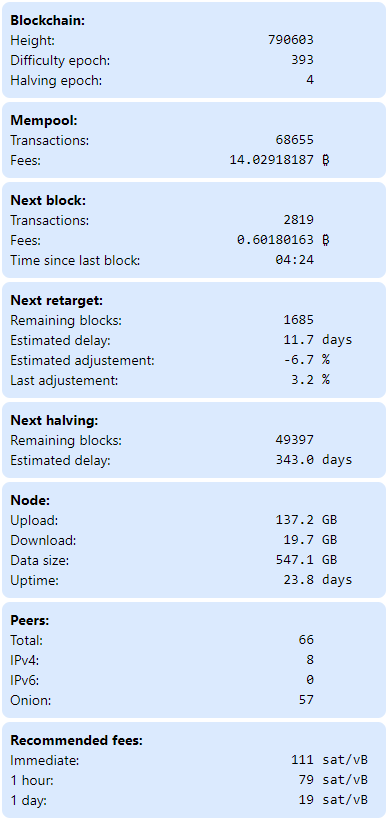
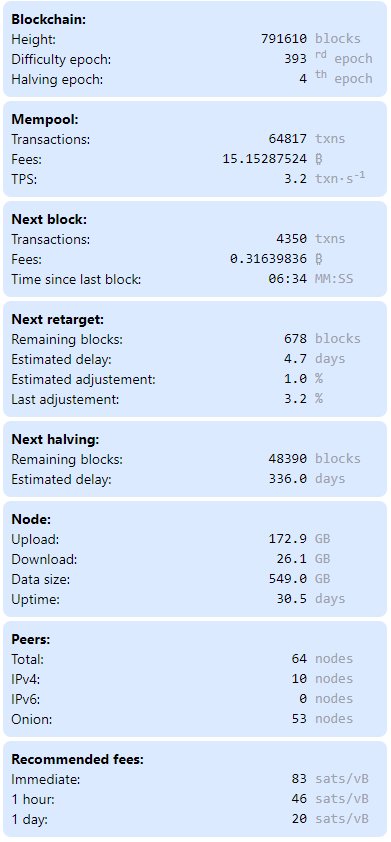
Added TPS + more units

Changed region(s): [[0.0, 0.0, 1.0, 1.0], [0.7366, 0.9124, 0.9514, 1.0]]

diff --git a/app/page.js b/app/page.js
@@ -9,24 +9,23 @@ function digitPrecision(val) {
   if (res.charAt(res.length - 2) != '.')
     res = res + ".0"
   return res
-
 }
 
 // Generates GB from byte size with 1 digit precision
 function formatSize(size) {
-  return digitPrecision(size / 1E9) + " GB"
+  return [digitPrecision(size / 1E9),  "GB"]
 }
 
 // Format days (TODO: Use years, months, days, hours and keep only the 2 higher units)
 function formatDays(days) {
   let res = digitPrecision(days)
-  return res + " days"
+  return [res, "days"]
 }
 
 // Format percentage with 1 digit precision
 function formatPercent(percent) {
   let res = digitPrecision(percent)
-  return res + " %"
+  return [res, "%"]
 }
 
 // Format seconds in HH:MM:SS format with HH part omitted if less than 3600 seconds
@@ -39,7 +38,7 @@ function formatSeconds(totalSeconds) {
     .filter((v, i) => v > 0 || i > 0)
     .map(v => v.toString().padStart(2, '0'))
     .join(':')
-  return res
+  return [res, hours > 0 ? "HH:MM:SS" : "MM:SS"]
 }
 
 // Format bitcoin amount to exactly 8 digits precision
@@ -51,11 +50,34 @@ function formatBitcoinAmount(amount) {
     dotPosition = res.length - 1
   }
   res = res.padEnd(dotPosition + 8 + 1, '0')
-  return res + " ₿"
+  return [res, "₿"]
 }
 
 function formatFee(fee) {
-  return fee.toString() + " sat/vB"
+  return [fee, "sats/vB"]
+}
+
+function formatRate(rate) {
+  return rate === undefined ? undefined : [digitPrecision(rate), <div key="1">txn·s<sup>-1</sup></div>]
+}
+
+function formatBlocks(fee) {
+  return [fee, "blocks"]
+}
+
+// TXN is abbreviation for transactions (https://en.wikipedia.org/wiki/TXN#:~:text=TXN%2C%20abbreviation%20for%20transaction%20(disambiguation))
+function formatTransactions(fee) {
+  return [fee, "txns"]
+}
+
+function formatPeers(fee) {
+  return [fee, "nodes"]
+}
+
+function formatEpoch(epoch) {
+  const digit = epoch % 10;
+  const ord = digit == 1 ? 'st' : digit == 2 ? 'nd' : digit == 3 ? 'rd' : 'th'
+  return [epoch, <div key="1"><sup>{ord}</sup> epoch</div>]
 }
 
 export default async function Home() {
@@ -63,22 +85,29 @@ export default async function Home() {
   return (
     <main className="flex flex-col gap-1 m-1 w-96 text-sm">
       <Card title={"Blockchain"} items={[
-        {Height: summary.headers}, {"Difficulty epoch": summary.diff_epoch}, {"Halving epoch": summary.halving_epoch}
+        {"Height": formatBlocks(summary.headers)},
+        {"Difficulty epoch": formatEpoch(summary.diff_epoch)},
+        {"Halving epoch": formatEpoch(summary.halving_epoch)}
       ]}/>
       <Card title={"Mempool"} items={[
-        {"Transactions": summary.mempool.ntx}, {"Fees": formatBitcoinAmount(summary.mempool.fees)}
+        {"Transactions": formatTransactions(summary.mempool.ntx)},
+        {"Fees": formatBitcoinAmount(summary.mempool.fees)},
+        {"TPS": formatRate(summary.mempool.ntx_per_second)}
       ]}/>
       <Card title={"Next block"} items={[
-        {"Transactions": summary.template.ntx}, {"Fees": formatBitcoinAmount(summary.template.fees)},
+        {"Transactions": formatTransactions(summary.template.ntx)},
+        {"Fees": formatBitcoinAmount(summary.template.fees)},
         {"Time since last block": formatSeconds(summary.time_since_last_bloc)}
       ]}/>
       <Card title={"Next retarget"} items={[
-        {"Remaining blocks": summary.next_retarget.blocks}, {"Estimated delay": formatDays(summary.next_retarget.days)},
+        {"Remaining blocks": formatBlocks(summary.next_retarget.blocks)},
+        {"Estimated delay": formatDays(summary.next_retarget.days)},
         {"Estimated adjustement": formatPercent(summary.next_retarget.estimated_diff_adj_percent)},
         {"Last adjustement": formatPercent(summary.prev_diff_adj_percent)}
       ]}/>
       <Card title={"Next halving"} items={[
-        {"Remaining blocks": summary.next_halving.blocks}, {"Estimated delay": formatDays(summary.next_halving.days)}
+        {"Remaining blocks": formatBlocks(summary.next_halving.blocks)},
+        {"Estimated delay": formatDays(summary.next_halving.days)}
       ]}/>
       <Card title={"Node"} items={[
         {"Upload": formatSize(summary.totalbytessent)}, {"Download": formatSize(summary.totalbytesrecv)},
@@ -86,10 +115,15 @@ export default async function Home() {
       ]}/>
       {/* Not publicly routable nodes are counted in the total but not are displayed apart, electrum server is one such node */}
       <Card title={"Peers"} items={[
-        {"Total": summary.peers.total}, {"IPv4": summary.peers.ipv4}, {"IPv6": summary.peers.ipv6}, {"Onion": summary.peers.onion}
+        {"Total": formatPeers(summary.peers.total)},
+        {"IPv4": formatPeers(summary.peers.ipv4)},
+        {"IPv6": formatPeers(summary.peers.ipv6)},
+        {"Onion": formatPeers(summary.peers.onion)}
       ]}/>
       <Card title={"Recommended fees"} items={[
-        {"Immediate": formatFee(summary.feerates["1"])}, {"1 hour": formatFee(summary.feerates["6"])}, {"1 day": formatFee(summary.feerates["144"])}
+        {"Immediate": formatFee(summary.feerates["1"])},
+        {"1 hour": formatFee(summary.feerates["6"])},
+        {"1 day": formatFee(summary.feerates["144"])}
       ]}/>
     </main>
   )

diff --git a/app/card.js b/app/card.js
@@ -1,3 +1,5 @@
+const emptyCell = "\u00A0"
+
 export default async function Card({title, items}) {
   return (
     <div className="p-2 bg-blue-100 rounded-lg">
@@ -8,28 +10,45 @@ export default async function Card({title, items}) {
         <div>
           {items.map((item, index) => (
             <div key={index} className="">
-              {Object.keys(item)[0]}:
+              {
+                // Label is the key followed by : character
+                Object.keys(item)[0]
+              }:
             </div>
           ))}
         </div>
         <div className="flex justify-end gap-2">
           <div>
-            {items.map((item, index) => (
-              <div key={index} className="text-end font-mono">
-                {Object.values(item)[0].toString().split(' ')[0]}
-              </div>
-            ))}
+            {
+              items.map((item, index) => {
+                // if value is an array then content if first element of array, otherwise it is the value itself
+                // For TPS the value itself may be undefined
+                const valUnit = Object.values(item)[0]
+                const val = Array.isArray(valUnit) ? valUnit[0] : valUnit ?? emptyCell
+                return (
+                  <div key={index} className="text-end font-mono">
+                    {val}
+                  </div>
+                )
+              })
+            }
           </div>
           <div>
-            {items.map((item, index) => (
-              <div key={index} className="font-mono w-14">
-                {Object.values(item)[0].toString().split(' ')[1] ?? "\u00A0"}
-              </div>
-            ))}
+            {
+              items.map((item, index) => {
+                const valUnit = Object.values(item)[0]
+                // if value is an array then unit is second element of array (in jsx format), otherwise there is no unit
+                const unit = Array.isArray(valUnit) ? valUnit[1] : emptyCell
+                return (
+                  <div key={index} className="w-16 font-mono text-gray-400">
+                    {unit}
+                  </div>
+                )
+              })
+            }
           </div>
         </div>
       </div>
     </div>
   )
 }
-  

diff --git a/lib/load-summary.js b/lib/load-summary.js
@@ -205,12 +205,25 @@ async function loadSummaryCached() {
 // Do my own caching (I couldn't make the react cache work)
 let lastRes = {}
 let lastTime;
+// Compute transaction rate (added in the mempool)
+let lastMempoolNtx;
+let lastExactTime;
+let lastHeaders;
 export async function loadSummary() {
-    const newTime = Math.floor(Date.now() / 1000 / process.env.REVALIDATE)
+    const newExactTime = Date.now()
+    const newTime = Math.floor(newExactTime / 1000 / process.env.REVALIDATE)
     let hit = lastTime == newTime;
     if (!hit) {
-        lastTime = newTime
         lastRes = await loadSummaryCached()
+        // Don't compute rate after server reboot, or when previous request was at a different block height
+        if (lastMempoolNtx != undefined && lastHeaders == lastRes.headers) {
+            const ntxPerSeconds = (lastRes.mempool.ntx - lastMempoolNtx) / (newExactTime - lastExactTime) * 1000
+            lastRes.mempool.ntx_per_second = precision3(ntxPerSeconds)
+        }
+        lastMempoolNtx = lastRes.mempool.ntx
+        lastHeaders = lastRes.headers
+        lastTime = newTime
+        lastExactTime = newExactTime
     }
     return lastRes
 }

diff --git a/README.md b/README.md
@@ -10,11 +10,16 @@ Note: Any mention of 192.168.110.121 throughout the document should be replaced 
 
 ## Development
 
-First, adapt .env file at the root:
-- redefine BITCOIND_COOKIE_PATH to point to your bitcoin node `.cookie` file
-- set BITCOIND_PORT to your bitcoin RPC port.
+Adapt .env file at the root:
+  - redefine BITCOIND_COOKIE_PATH to point to your bitcoin node `.cookie` file
+  - set BITCOIND_PORT to your bitcoin RPC port.
 
-Then, run the development server:
+Install the dependencies:
+```bash
+npm install
+```
+
+Run the development server:
 ```bash
 npm run dev
 ```
@@ -43,7 +48,7 @@ Note that in both development and deployment cases the port used is the same (30
 
 Stop any interactive `npm run start` session.
 
-Create `/etc/systemd/system/node-summary.service` file with following content (replace working directory and npm path by your own):
+Create `/etc/systemd/system/node-summary.service` file with following content (replace working directory, npm path, user, group by your own):
 ```ini
 [Unit]
 Description=BTC RPC Summary
@@ -86,43 +91,44 @@ Get the logs with: `journalctl -S <hh:mm> -u node-summary -o cat -f`
 ```json
 {
   "feerates": {
-    "1": 111,
-    "6": 79,
-    "144": 19
+    "1": 83,
+    "6": 46,
+    "144": 20
   },
-  "uptime_days": 23.785,
+  "uptime_days": 30.512,
   "diff_epoch": 393,
   "halving_epoch": 4,
-  "blocks": 790604,
-  "headers": 790604,
-  "size_on_disk": 547057274650,
-  "totalbytesrecv": 19716881205,
-  "totalbytessent": 137218902796,
+  "blocks": 791610,
+  "headers": 791610,
+  "size_on_disk": 549036107585,
+  "totalbytesrecv": 26138792282,
+  "totalbytessent": 172915725919,
   "peers": {
-    "total": 66,
-    "ipv4": 8,
+    "total": 64,
+    "ipv4": 10,
     "ipv6": 0,
-    "onion": 57,
+    "onion": 53,
     "not_publicly_routable": 1
   },
   "template": {
-    "fees": 0.63807639,
-    "ntx": 2201
+    "fees": 0.31639836,
+    "ntx": 4350
   },
   "mempool": {
-    "fees": 14.07626074,
-    "ntx": 69342
+    "fees": 15.15287524,
+    "ntx": 64817,
+    "ntx_per_second": 3.238
   },
-  "time_since_last_bloc": 258,
+  "time_since_last_bloc": 394,
   "prev_diff_adj_percent": 3.217,
   "next_retarget": {
-    "blocks": 1684,
-    "days": 11.694,
-    "estimated_diff_adj_percent": -6.732
+    "blocks": 678,
+    "days": 4.708,
+    "estimated_diff_adj_percent": 1.01
   },
   "next_halving": {
-    "blocks": 49396,
-    "days": 343.028
+    "blocks": 48390,
+    "days": 336.042
   },
   "revalidate": "5"
 }
